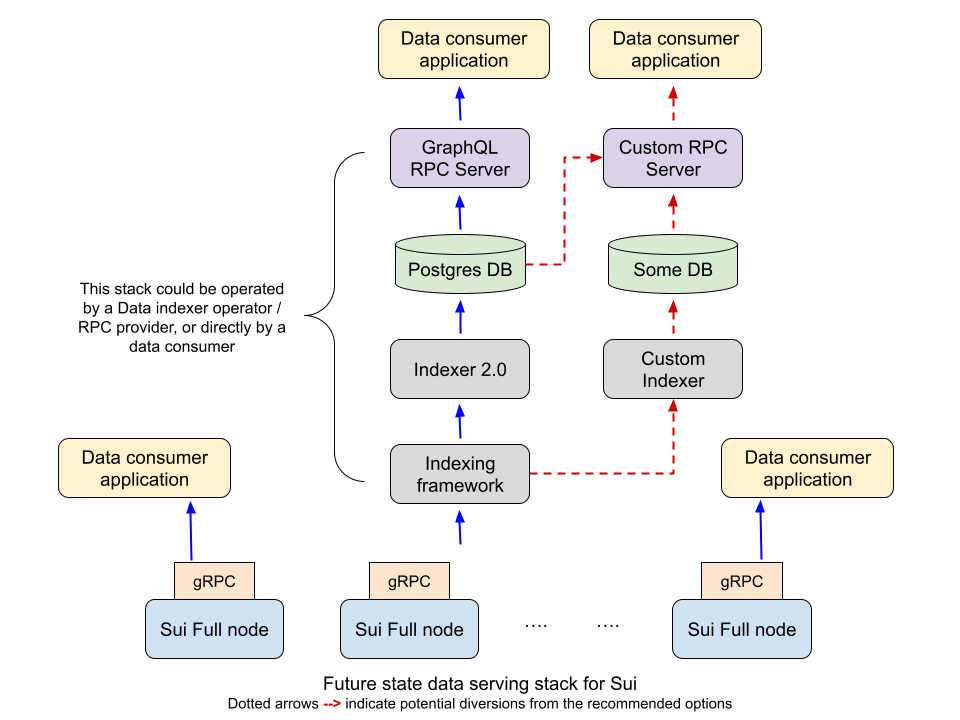
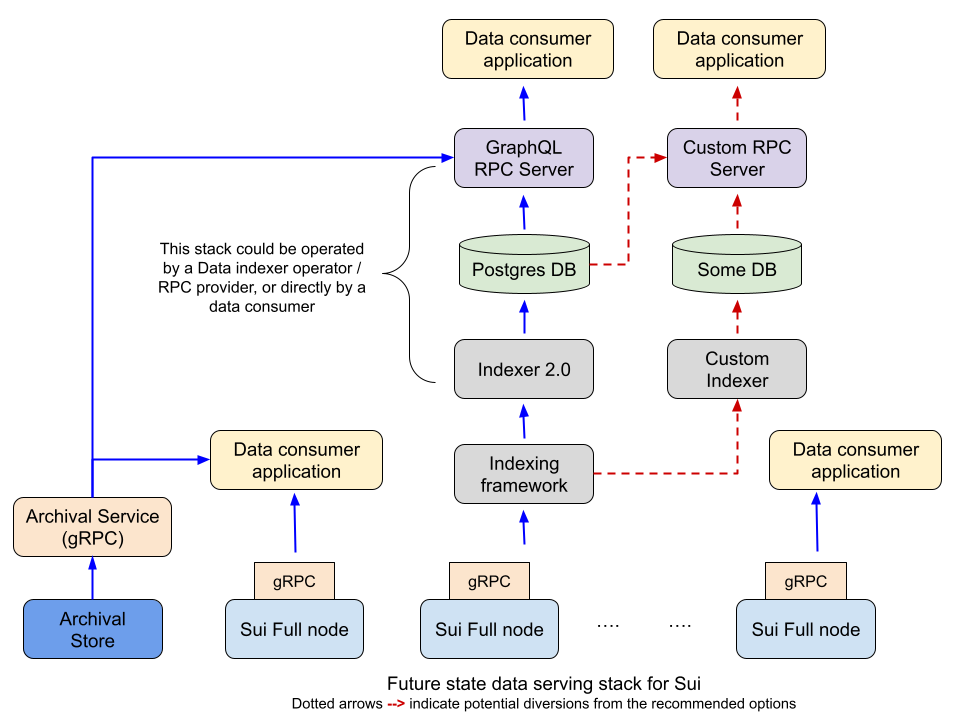
Re-adding draft doc for archival store and service
## Description 

Adding draft doc for archival store and service.

## Test plan 

Ran the local doc server using pnpm build and start to validate the
changes.

---

## Release notes

Check each box that your changes affect. If none of the boxes relate to
your changes, release notes aren't required.

For each box you select, include information after the relevant heading
that describes the impact of your changes that a user might notice and
any actions they must take to implement updates.

- [ ] Protocol: 
- [ ] Nodes (Validators and Full nodes): 
- [ ] gRPC:
- [ ] JSON-RPC: 
- [ ] GraphQL: 
- [ ] CLI: 
- [ ] Rust SDK:

---------

diff --git a/docs/content/sidebars/concepts.js b/docs/content/sidebars/concepts.js
@@ -94,6 +94,7 @@ const concepts = [
 			},
 			'concepts/grpc-overview',
 			'concepts/graphql-rpc',
+			'concepts/archival-store',
 			'concepts/gaming'
 		],
 	},